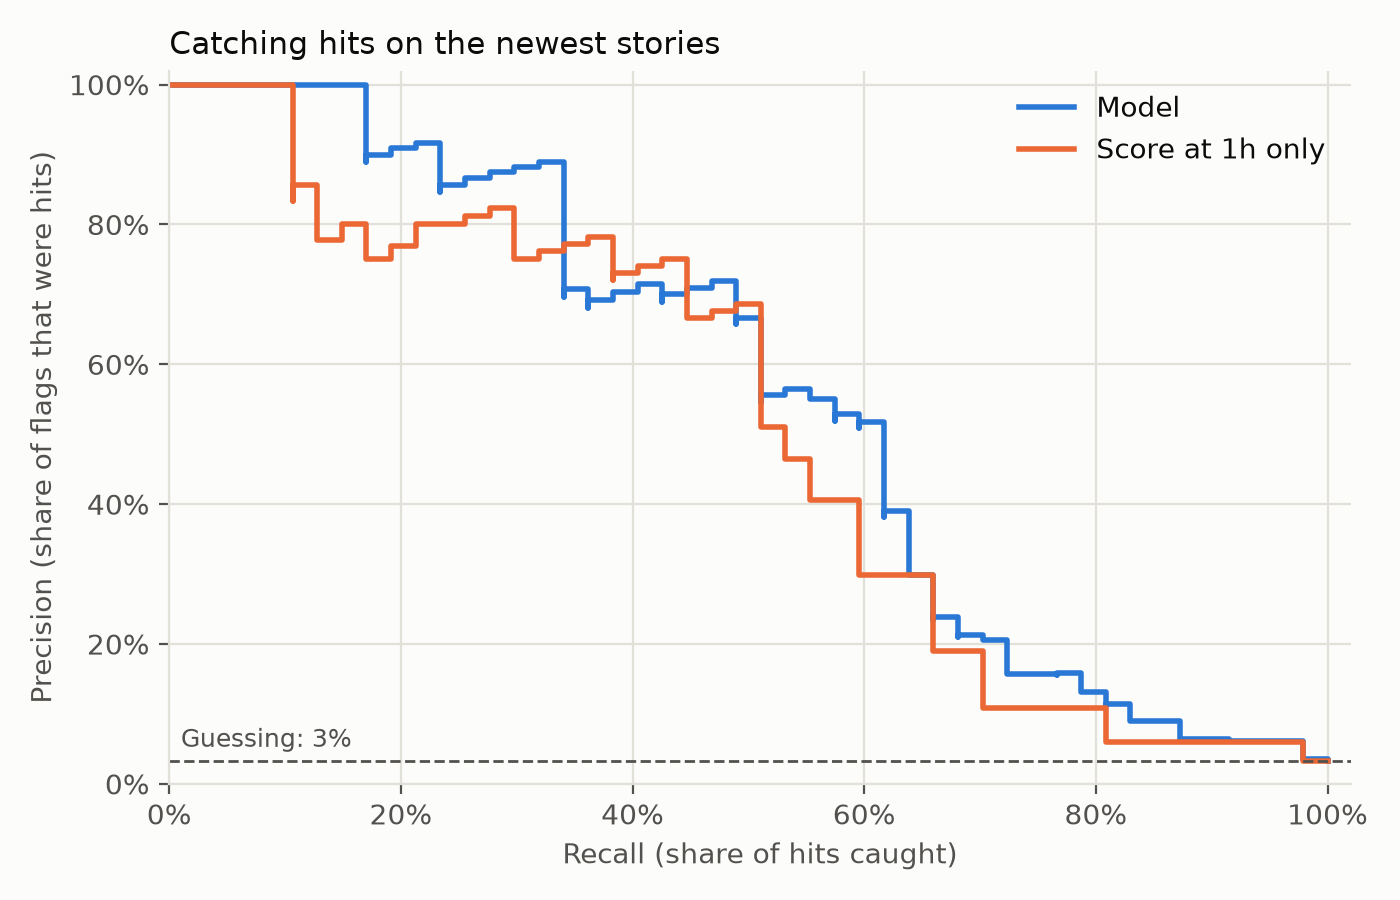
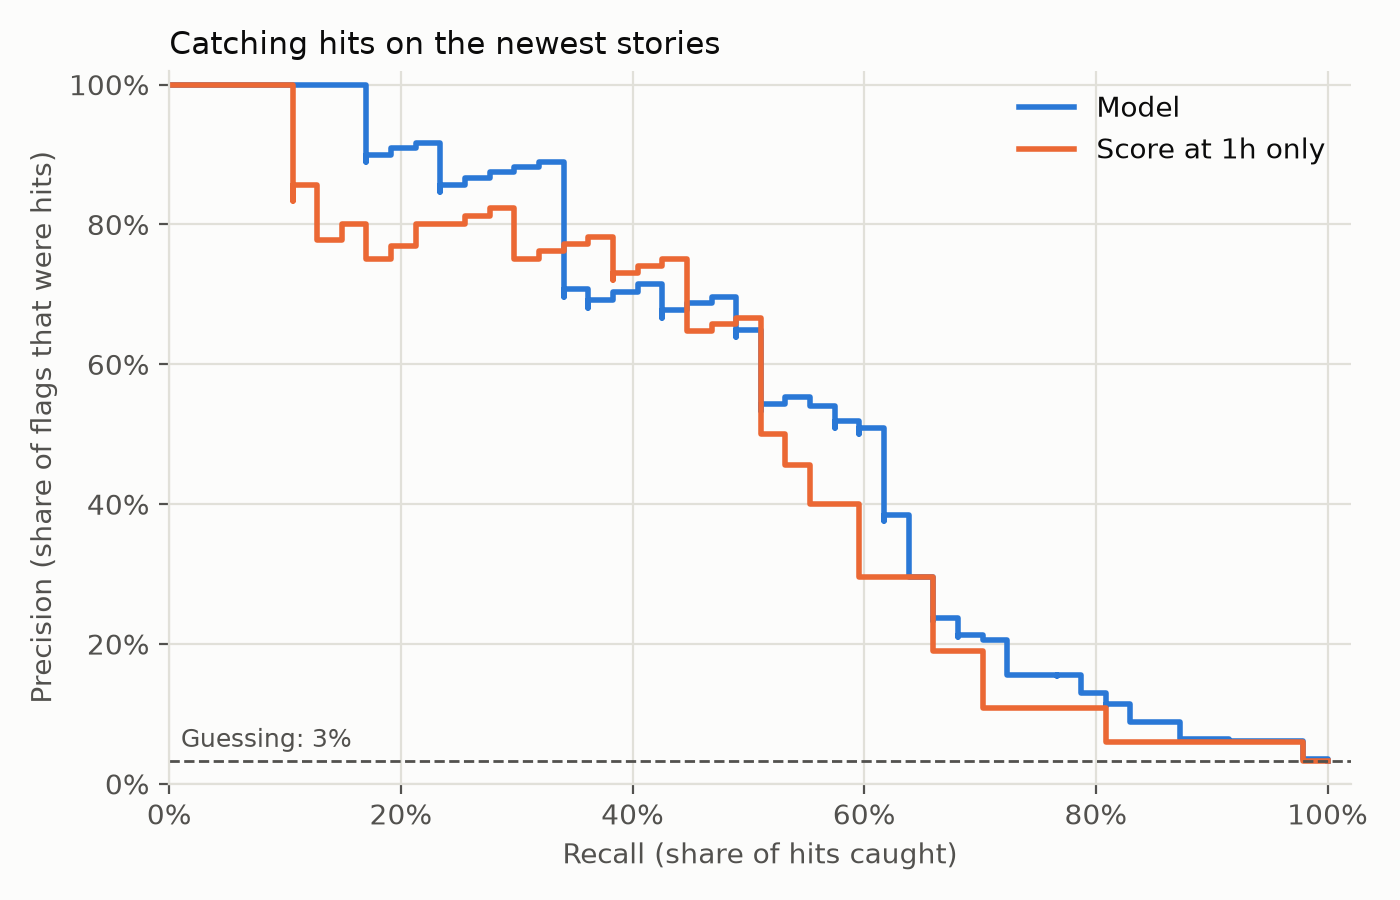
Pin the published results to stories posted before Sep 28

diff --git a/docs/decisions/0006-model.md b/docs/decisions/0006-model.md
@@ -6,6 +6,7 @@
 3. The model is compared against the simple rule "flag a story with N or more points at one hour". Both cutoffs are chosen on the training stories. The model's comes from predictions on stories left out of each fit, so it isn't tuned to stories the model has already seen.
 4. Results are judged by precision, recall and average precision, not accuracy.
 5. The script lives in `analysis/`, and its libraries are in the dev requirements only.
+6. Published results use a cutoff on posting date, so a rerun gives the same numbers.
 
 ## Why
 Only about 3.5% of stories reach 100 points. A model that says "no" every time is 96.5% accurate and useless, so accuracy says nothing here. Precision is how often a flag was right, and recall is how many of the hits got flagged. Average precision sums up the whole trade off between the two in one number.
@@ -16,15 +17,17 @@ Logistic regression gives a probability, is quick to fit, and its weights can be
 
 Time of day and day of the week were tried on the training stories and made the model worse, so they were dropped. Log scaling stops a few stories with hundreds of points from drowning out the rest. About 2% of stories have no reading at half an hour, so their momentum is filled with the typical value from the training stories.
 
+A story only counts as usable once its first day is over, so every rebuild of the outcomes table adds a few more. The first run, a day earlier, gave slightly different numbers (72% and 68% precision) for that reason. A cutoff on posting date fixes the set of stories, so a rerun gives the same result.
+
 ## Result
-First run, 2026-09-28. The model trained on 3,330 stories posted Sep 11 to Sep 25, with 117 hits. It was tested on 1,426 stories posted Sep 26 and 27, with 47 hits.
+Run on 2026-09-29 with `--posted-before 2026-09-28`. The model trained on 3,341 stories posted Sep 11 to Sep 25, with 117 hits. It was tested on 1,430 stories posted Sep 26 and 27, with 47 hits.
 
 | | Precision | Recall | Average precision |
 |---|---|---|---|
-| Rule: 15+ points at one hour | 68% | 45% | 0.50 |
-| Model: 22%+ chance of reaching 100 | 72% | 49% | 0.55 |
+| Rule: 15+ points at one hour | 66% | 45% | 0.50 |
+| Model: 22%+ chance of reaching 100 | 70% | 49% | 0.55 |
 
-The model is a modest step up from the rule. At the chosen cutoffs it catches two more hits with fewer false alarms, and it is more precise at most recall levels. With only 47 hits in the test set, one or two stories can move these numbers by a few points.
+The model is a modest step up from the rule. At the chosen cutoffs it catches two more hits (23 vs 21) with one fewer false alarm, and it is more precise at most recall levels. With only 47 hits in the test set, one or two stories can move these numbers by a few points.
 
 Comments get a negative weight. For two stories with the same score, the one with more comments is less likely to reach 100, maybe because it is drawing debate rather than upvotes.
 

diff --git a/README.md b/README.md
@@ -18,12 +18,12 @@ of them, and most of the stories it flags really get there. Score at one hour do
 work. A small model that also looks at comments and momentum does slightly better than score
 alone.
 
-On 1,426 newer stories the model had never seen:
+On 1,430 newer stories the model had never seen:
 
 | | Precision | Recall |
 |---|---|---|
-| Rule: 15+ points at one hour | 68% | 45% |
-| Model | 72% | 49% |
+| Rule: 15+ points at one hour | 66% | 45% |
+| Model | 70% | 49% |
 
 Precision is how often a flagged story really reached 100. Recall is how many of the stories
 that reached 100 got flagged.
@@ -34,7 +34,8 @@ The hard part is the slow starters. Out of 199 stories that reached 100, 44 had 
 points at the one hour mark, which is when they look like any other quiet story.
 
 Based on 16 days of data (Sep 11 to Sep 27, 2026). The test set has only 47 hits, so treat
-the gap between the model and the rule as small.
+the gap between the model and the rule as small. Running the model with
+`--posted-before 2026-09-28` gives these exact numbers.
 
 ## How it works
 1. **Extract and load.** A Railway cron job checks each new story every 5 minutes for its
